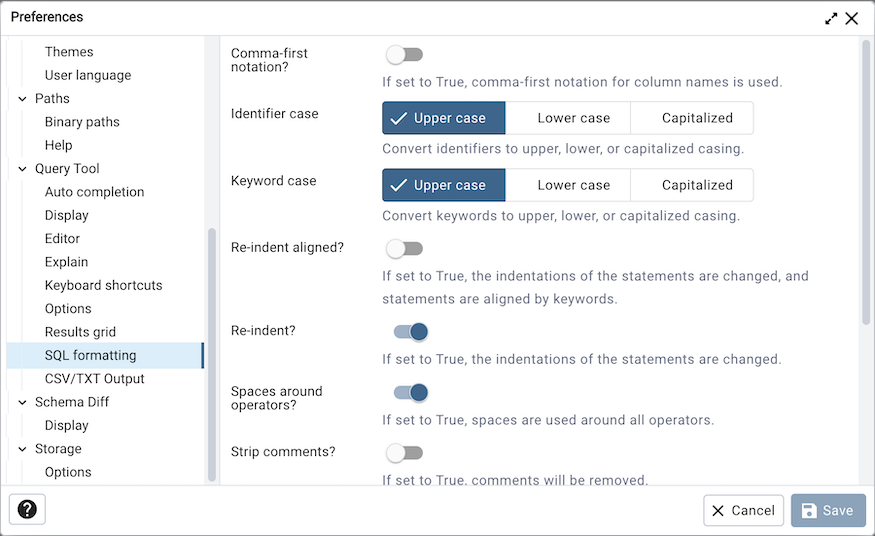
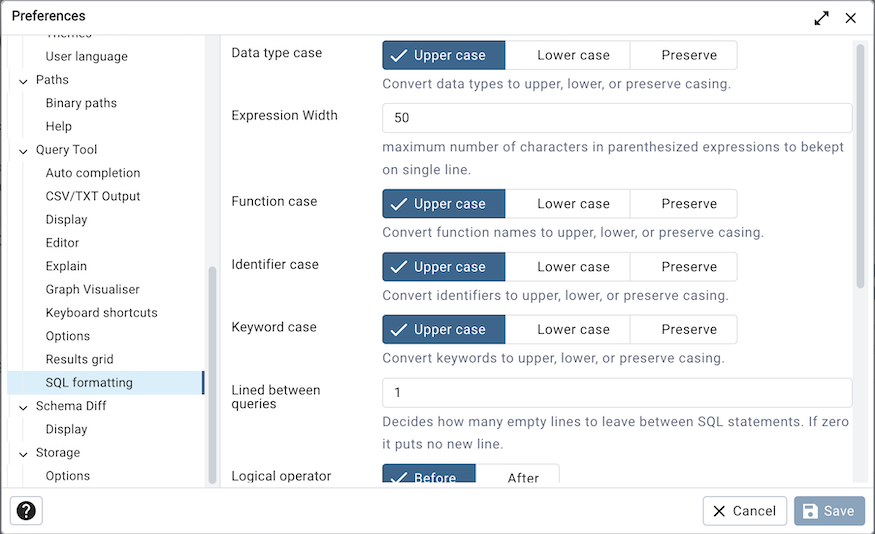
Fixed an issue where format sql was messing up operator. #5083
- The formatting is done on client side now using sql-formattor JS lib. Backend API based formatting is removed.
- Added new options data type case, expression width, function case, lines between queries, logical operator new line and new line before semicolon available in the new lib.
- Removed old options comma-first notations, re-indent aligned, re-indent, strip comments and wrap after N characters as not available in the new library.
- Capitalise casing is replaced with Preserve casing as it is not supported by the new library.
- Also fixes #6785, #6990, #7115.

diff --git a/web/pgadmin/tools/sqleditor/static/js/components/sections/Query.jsx b/web/pgadmin/tools/sqleditor/static/js/components/sections/Query.jsx
@@ -8,6 +8,7 @@
 //////////////////////////////////////////////////////////////
 import { makeStyles } from '@material-ui/styles';
 import React, {useContext, useCallback, useEffect } from 'react';
+import { format } from 'sql-formatter';
 import { QueryToolContext, QueryToolEventsContext } from '../QueryToolComponent';
 import CodeMirror from '../../../../../../static/js/components/CodeMirror';
 import {PANELS, QUERY_TOOL_EVENTS} from '../QueryToolConstants';
@@ -444,19 +445,35 @@ export default function Query() {
     });
     eventBus.registerListener(QUERY_TOOL_EVENTS.TRIGGER_FORMAT_SQL, ()=>{
       let selection = true, sql = editor.current?.getSelection();
+      let sqlEditorPref = preferencesStore.getPreferencesForModule('sqleditor');
+      /* New library does not support capitalize casing
+        so if a user has set capitalize casing we will 
+        use preserve casing which is default for the library.
+      */
+      let formatPrefs = {
+        language: 'postgresql',
+        keywordCase: sqlEditorPref.keyword_case === 'capitalize' ? 'preserve' : sqlEditorPref.keyword_case,
+        identifierCase: sqlEditorPref.identifier_case === 'capitalize' ? 'preserve' : sqlEditorPref.identifier_case,
+        dataTypeCase: sqlEditorPref.data_type_case,
+        functionCase: sqlEditorPref.function_case,
+        logicalOperatorNewline: sqlEditorPref.logical_operator_new_line,
+        expressionWidth: sqlEditorPref.expression_width,
+        linesBetweenQueries: sqlEditorPref.lines_between_queries,
+        tabWidth: sqlEditorPref.tab_size,
+        useTabs: !sqlEditorPref.use_spaces,
+        denseOperators: !sqlEditorPref.spaces_around_operators,
+        newlineBeforeSemicolon: sqlEditorPref.new_line_before_semicolon
+      };
       if(sql == '') {
         sql = editor.current.getValue();
         selection = false;
       }
-      queryToolCtx.api.post(url_for('sql.format'), {
-        'sql': sql,
-      }).then((res)=>{
-        if(selection) {
-          editor.current.replaceSelection(res.data.data.sql, 'around');
-        } else {
-          editor.current.setValue(res.data.data.sql);
-        }
-      }).catch(()=>{/* failure should be ignored */});
+      let formattedSql = format(sql,formatPrefs);
+      if(selection) {
+        editor.current.replaceSelection(formattedSql, 'around');
+      } else {
+        editor.current.setValue(formattedSql);
+      }
     });
     eventBus.registerListener(QUERY_TOOL_EVENTS.EDITOR_TOGGLE_CASE, ()=>{
       let selectedText = editor.current?.getSelection();

diff --git a/web/pgadmin/tools/sqleditor/utils/query_tool_preferences.py b/web/pgadmin/tools/sqleditor/utils/query_tool_preferences.py
@@ -735,10 +735,10 @@ def register_query_tool_preferences(self):
         gettext("Keyword case"), 'radioModern', 'upper',
         options=[{'label': gettext('Upper case'), 'value': 'upper'},
                  {'label': gettext('Lower case'), 'value': 'lower'},
-                 {'label': gettext('Capitalized'), 'value': 'capitalize'}],
+                 {'label': gettext('Preserve'), 'value': 'preserve'}],
         category_label=PREF_LABEL_SQL_FORMATTING,
         help_str=gettext(
-            'Convert keywords to upper, lower, or capitalized casing.'
+            'Convert keywords to upper, lower, or preserve casing.'
         )
     )
 
@@ -747,35 +747,35 @@ def register_query_tool_preferences(self):
         gettext("Identifier case"), 'radioModern', 'upper',
         options=[{'label': gettext('Upper case'), 'value': 'upper'},
                  {'label': gettext('Lower case'), 'value': 'lower'},
-                 {'label': gettext('Capitalized'), 'value': 'capitalize'}],
+                 {'label': gettext('Preserve'), 'value': 'preserve'}],
         category_label=PREF_LABEL_SQL_FORMATTING,
         help_str=gettext(
-            'Convert identifiers to upper, lower, or capitalized casing.'
+            'Convert identifiers to upper, lower, or preserve casing.'
         )
     )
 
-    self.strip_comments = self.preference.register(
-        'editor', 'strip_comments',
-        gettext("Strip comments?"), 'boolean', False,
+    self.function_case = self.preference.register(
+        'editor', 'function_case',
+        gettext("Function case"), 'radioModern', 'upper',
+        options=[{'label': gettext('Upper case'), 'value': 'upper'},
+                 {'label': gettext('Lower case'), 'value': 'lower'},
+                 {'label': gettext('Preserve'), 'value': 'preserve'}],
         category_label=PREF_LABEL_SQL_FORMATTING,
-        help_str=gettext('If set to True, comments will be removed.')
+        help_str=gettext(
+            'Convert function names to upper, lower, or preserve casing.'
+        )
     )
 
-    self.reindent = self.preference.register(
-        'editor', 'reindent',
-        gettext("Re-indent?"), 'boolean', True,
+    self.data_type_case = self.preference.register(
+        'editor', 'data_type_case',
+        gettext("Data type case"), 'radioModern', 'upper',
+        options=[{'label': gettext('Upper case'), 'value': 'upper'},
+                 {'label': gettext('Lower case'), 'value': 'lower'},
+                 {'label': gettext('Preserve'), 'value': 'preserve'}],
         category_label=PREF_LABEL_SQL_FORMATTING,
-        help_str=gettext('If set to True, the indentations of the '
-                         'statements are changed.')
-    )
-
-    self.reindent_aligned = self.preference.register(
-        'editor', 'reindent_aligned',
-        gettext("Re-indent aligned?"), 'boolean', False,
-        category_label=PREF_LABEL_SQL_FORMATTING,
-        help_str=gettext('If set to True, the indentations of the '
-                         'statements are changed, and statements are '
-                         'aligned by keywords.')
+        help_str=gettext(
+            'Convert data types to upper, lower, or preserve casing.'
+        )
     )
 
     self.spaces_around_operators = self.preference.register(
@@ -784,23 +784,6 @@ def register_query_tool_preferences(self):
         category_label=PREF_LABEL_SQL_FORMATTING,
         help_str=gettext('If set to True, spaces are used around all '
                          'operators.')
-    )
-
-    self.comma_first = self.preference.register(
-        'editor', 'comma_first',
-        gettext("Comma-first notation?"), 'boolean', False,
-        category_label=PREF_LABEL_SQL_FORMATTING,
-        help_str=gettext('If set to True, comma-first notation for column '
-                         'names is used.')
-    )
-
-    self.wrap_after = self.preference.register(
-        'editor', 'wrap_after',
-        gettext("Wrap after N characters"), 'integer', 4,
-        category_label=PREF_LABEL_SQL_FORMATTING,
-        help_str=gettext("The column limit (in characters) for wrapping "
-                         "comma-separated lists. If zero, it puts "
-                         "every item in the list on its own line.")
     )
 
     self.tab_size = self.preference.register(
@@ -821,6 +804,49 @@ def register_query_tool_preferences(self):
         help_str=gettext(
             'Specifies whether or not to insert spaces instead of tabs '
             'when the tab key or auto-indent are used.'
+        )
+    )
+
+    self.expression_width = self.preference.register(
+        'editor', 'expression_width',
+        gettext("Expression Width"), 'integer', 50,
+        category_label=PREF_LABEL_SQL_FORMATTING,
+        help_str=gettext(
+            'maximum number of characters in parenthesized expressions to be '
+            'kept on single line.'
+        )
+    )
+
+    self.logical_operator_new_line = self.preference.register(
+        'editor', 'logical_operator_new_line',
+        gettext("Logical operator new line"), 'radioModern', 'before',
+        options=[{'label': gettext('Before'), 'value': 'before'},
+                 {'label': gettext('After'), 'value': 'after'}],
+        category_label=PREF_LABEL_SQL_FORMATTING,
+        help_str=gettext(
+            'Decides newline placement before or after logical operators '
+            '(AND, OR, XOR).'
+        )
+    )
+
+    self.lines_between_queries = self.preference.register(
+        'editor', 'lines_between_queries',
+        gettext("Lines between queries"), 'integer', 1,
+        min_val=0,
+        max_val=5,
+        category_label=PREF_LABEL_SQL_FORMATTING,
+        help_str=gettext(
+            'Decides how many empty lines to leave between SQL statements. '
+            'If zero it puts no new line.'
+        )
+    )
+
+    self.new_line_before_semicolon = self.preference.register(
+        'editor', 'new_line_before_semicolon',
+        gettext("New line before semicolon?"), 'boolean', False,
+        category_label=PREF_LABEL_SQL_FORMATTING,
+        help_str=gettext(
+            'Whether to place query separator (;) on a separate line.'
         )
     )
 

diff --git a/web/pgadmin/misc/__init__.py b/web/pgadmin/misc/__init__.py
@@ -120,9 +120,6 @@ class MiscModule(PgAdminModule):
         from .file_manager import blueprint as module
         self.submodules.append(module)
 
-        from .sql import blueprint as module
-        self.submodules.append(module)
-
         from .statistics import blueprint as module
         self.submodules.append(module)
 

diff --git a/docs/en_US/preferences.rst b/docs/en_US/preferences.rst
@@ -486,26 +486,27 @@ Query Tool window navigation:
 Use the fields on the *SQL formatting* panel to specify your preferences for
 reformatting of SQL.
 
-* Use the *Comma-first notation* option to specify whether to place commas
-  before or after column names.
+* Use the *Data type case* option to specify whether to change data types
+  into upper, lower, or preserve case.
+* Use the *Expression width* option to specify maximum number of characters 
+  in parenthesized expressions to be kept on single line.
+* Use the *Function case* option to specify whether to change function
+  names into upper, lower, or preserve case.
 * Use the *Identifier case* option to specify whether to change identifiers
   (object names) into upper, lower, or capitalized case.
 * Use the *Keyword case* option to specify whether to change keywords into
-  upper, lower, or capitalized case.
-* Use the *Re-indent aligned?* option to specify that indentations of statements
-  should be changed, aligned by keywords.
-* Use the *Re-indent?* option to specify that indentations of statements should
-  be changed.
+  upper, lower, or preserve case.
+* Use *Lines between queries* to specify how many empty lines to leave 
+  between SQL statements. If set to zero it puts no new line.
+* Use *Logical operator new line* to specify newline placement before or
+  after logical operators (AND, OR, XOR).
+* Use *New line before semicolon?* to specify whether to place query
+  separator (;) on a separate line.
 * Use the *Spaces around operators?* option to specify whether or not to include
   spaces on either side of operators.
-* Use the *Strip comments?* option to specify whether or not comments should be
-  removed.
 * Use the *Tab size* option to specify the number of spaces per tab or indent.
 * Use the *Use spaces?* option to select whether to use spaces or tabs when
   indenting.
-* Use the *Wrap after N characters* option to specify the column limit for
-  wrapping column separated lists (e.g. of column names in a table). If set to
-  0 (zero), each item will be on it's own line.
 
 The Schema Diff Node
 ********************
